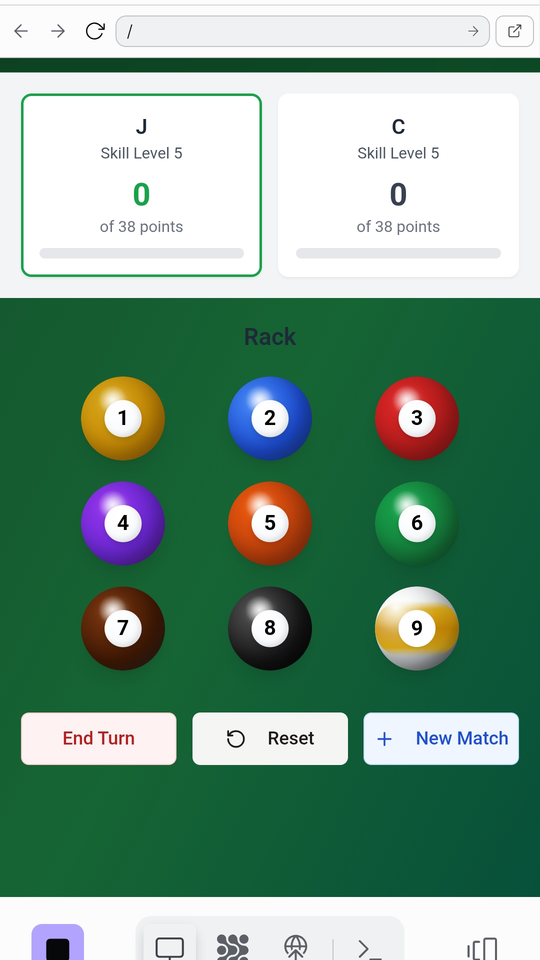
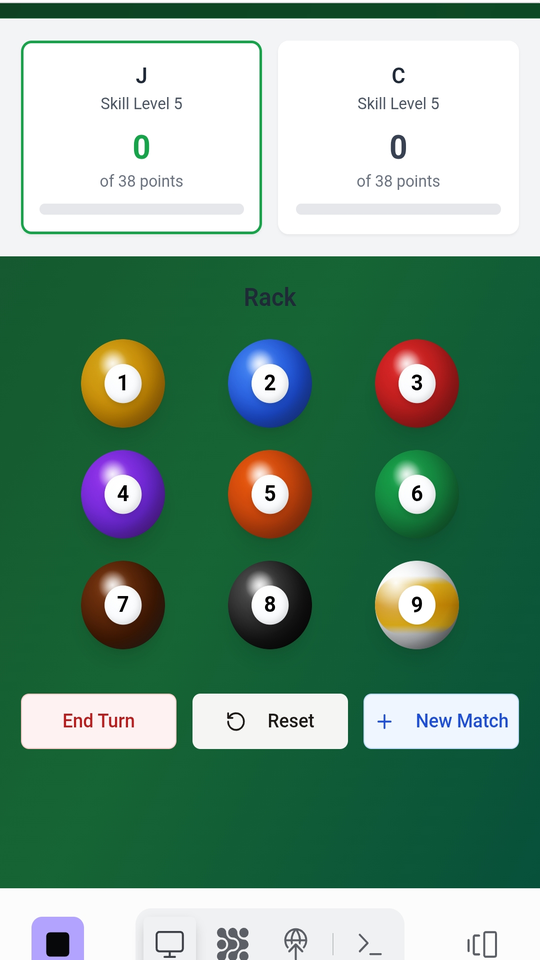
Improve screenshots for app installations by focusing on the interface
Adjusts screenshot creation to crop out the Replit interface, adds screenshot to manifest, and serves the mobile screenshot as a static asset.

Replit-Commit-Author: Agent
Replit-Commit-Session-Id: 0acfe798-48ef-4ebc-8d52-a5a8456c7185
Replit-Commit-Screenshot-Url: https://storage.googleapis.com/screenshot-production-us-central1/dbe2d108-b826-4376-b368-f9c11fb92b15/0adbf849-136d-435a-9728-7c79b82fabfc.jpg

diff --git a/server/routes.ts b/server/routes.ts
@@ -33,6 +33,12 @@ export async function registerRoutes(app: Express): Promise<Server> {
     res.sendFile(distPath);
   });
 
+  app.get('/screenshot-mobile.png', (req, res) => {
+    const distPath = path.resolve(import.meta.dirname, "..", "screenshot-mobile.png");
+    res.setHeader('Content-Type', 'image/png');
+    res.sendFile(distPath);
+  });
+
   // Get current active match
   app.get("/api/match/current", async (req, res) => {
     try {

diff --git a/build-static-only.js b/build-static-only.js
@@ -29,7 +29,7 @@ async function buildStaticOnly() {
     }
     
     // Copy PWA files to dist directory
-    const pwaFiles = ['manifest.json', 'sw.js', 'icon-192.png', 'icon-512.png'];
+    const pwaFiles = ['manifest.json', 'sw.js', 'icon-192.png', 'icon-512.png', 'screenshot-mobile.png'];
     for (const file of pwaFiles) {
       try {
         await fs.copyFile(file, `dist/${file}`);

diff --git a/create-screenshots.py b/create-screenshots.py
@@ -18,20 +18,19 @@ def create_pwa_screenshots():
     mobile_width = 540
     mobile_height = 960
     
-    # Calculate crop area to maintain aspect ratio
+    # Manual crop to remove Replit interface
+    # The app content starts around y=200 and goes to about y=900
+    # and is centered horizontally
     original_width, original_height = img.size
-    aspect_ratio = mobile_width / mobile_height
     
-    if original_width / original_height > aspect_ratio:
-        # Image is wider, crop width
-        new_width = int(original_height * aspect_ratio)
-        left = (original_width - new_width) // 2
-        crop_box = (left, 0, left + new_width, original_height)
-    else:
-        # Image is taller, crop height
-        new_height = int(original_width / aspect_ratio)
-        top = (original_height - new_height) // 2
-        crop_box = (0, top, original_width, top + new_height)
+    # Crop out the Replit interface (browser bar, etc.)
+    # Focus on just the app content area
+    app_left = 0  # Start from left edge
+    app_top = 320  # Skip all browser/Replit interface completely
+    app_right = original_width  # Go to right edge
+    app_bottom = original_height - 200  # Skip the bottom device navigation
+    
+    crop_box = (app_left, app_top, app_right, app_bottom)
     
     # Crop and resize
     cropped = img.crop(crop_box)
@@ -39,23 +38,7 @@ def create_pwa_screenshots():
     mobile_screenshot.save("screenshot-mobile.png", "PNG", optimize=True)
     print("Created screenshot-mobile.png")
     
-    # Create desktop screenshot (wider format)
-    desktop_width = 1280
-    desktop_height = 800
-    
-    # For desktop, we'll use a different approach - pad the mobile screenshot
-    desktop_screenshot = Image.new("RGB", (desktop_width, desktop_height), "#1a4b3a")
-    
-    # Scale mobile screenshot to fit desktop height
-    scale_factor = desktop_height / mobile_height
-    scaled_mobile_width = int(mobile_width * scale_factor)
-    scaled_mobile = mobile_screenshot.resize((scaled_mobile_width, desktop_height), Image.Resampling.LANCZOS)
-    
-    # Center the mobile screenshot on desktop canvas
-    x_offset = (desktop_width - scaled_mobile_width) // 2
-    desktop_screenshot.paste(scaled_mobile, (x_offset, 0))
-    desktop_screenshot.save("screenshot-desktop.png", "PNG", optimize=True)
-    print("Created screenshot-desktop.png")
+
     
     print("PWA screenshots created successfully!")
 

diff --git a/replit.md b/replit.md
@@ -210,6 +210,7 @@ This is a full-stack web application for tracking 9-ball pool matches using the 
 - June 30, 2025: Version 1.0.5 - PWA-enabled production build ready for Android APK conversion
 - June 30, 2025: FIXED PWA manifest serving - added proper content-type headers for PWABuilder compatibility
 - June 30, 2025: UPDATED PWA icons to authentic 9-ball design - replaced generic club icon with proper yellow 9-ball pool ball graphics
+- June 30, 2025: CROPPED mobile screenshot to remove Replit interface - shows pure app content for professional PWA installation experience
 
 ## User Preferences
 
